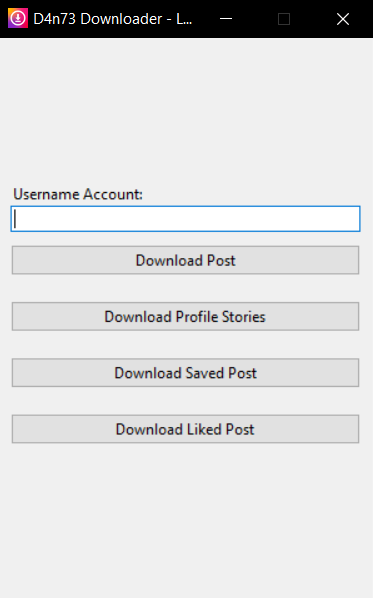
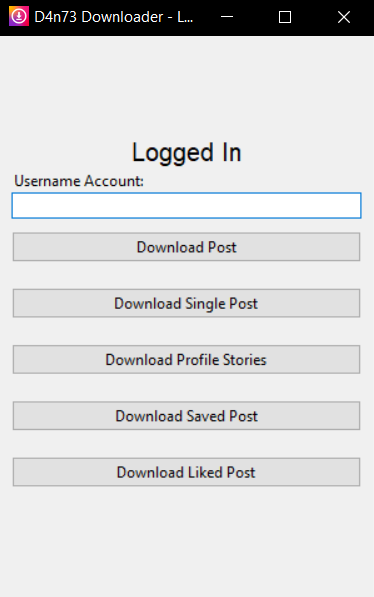
Update Screenshot Little GUI changes

Changed region(s): [[0.0295, 0.2412, 0.9732, 0.8141], [0.0, 0.0, 1.0, 0.0905]]

diff --git a/instaDow/gui-instaDow.py b/instaDow/gui-instaDow.py
@@ -392,6 +392,8 @@ Email & Password -- Credenziali per effettuare il login ed eseguire operazioni e
 Login -- Da l'accesso ad operazioni come:
         > Download Post -- Scarica post da un account privato
 
+        > Download Single Post -- Scarica post singolo da un account
+
         > Download Profile Stories -- Scarica le storie di un account
 
         > Download Saved Post -- Scarica i post salvati dell'account che ha effettuato il login

diff --git a/README.md b/README.md
@@ -70,3 +70,5 @@ pip insall tk
 ![7](./Screenshot/Screenshot_7.png)
 
 ![8](./Screenshot/Screenshot_8.png)
+
+![9](./Screenshot/Screenshot_9.png)
